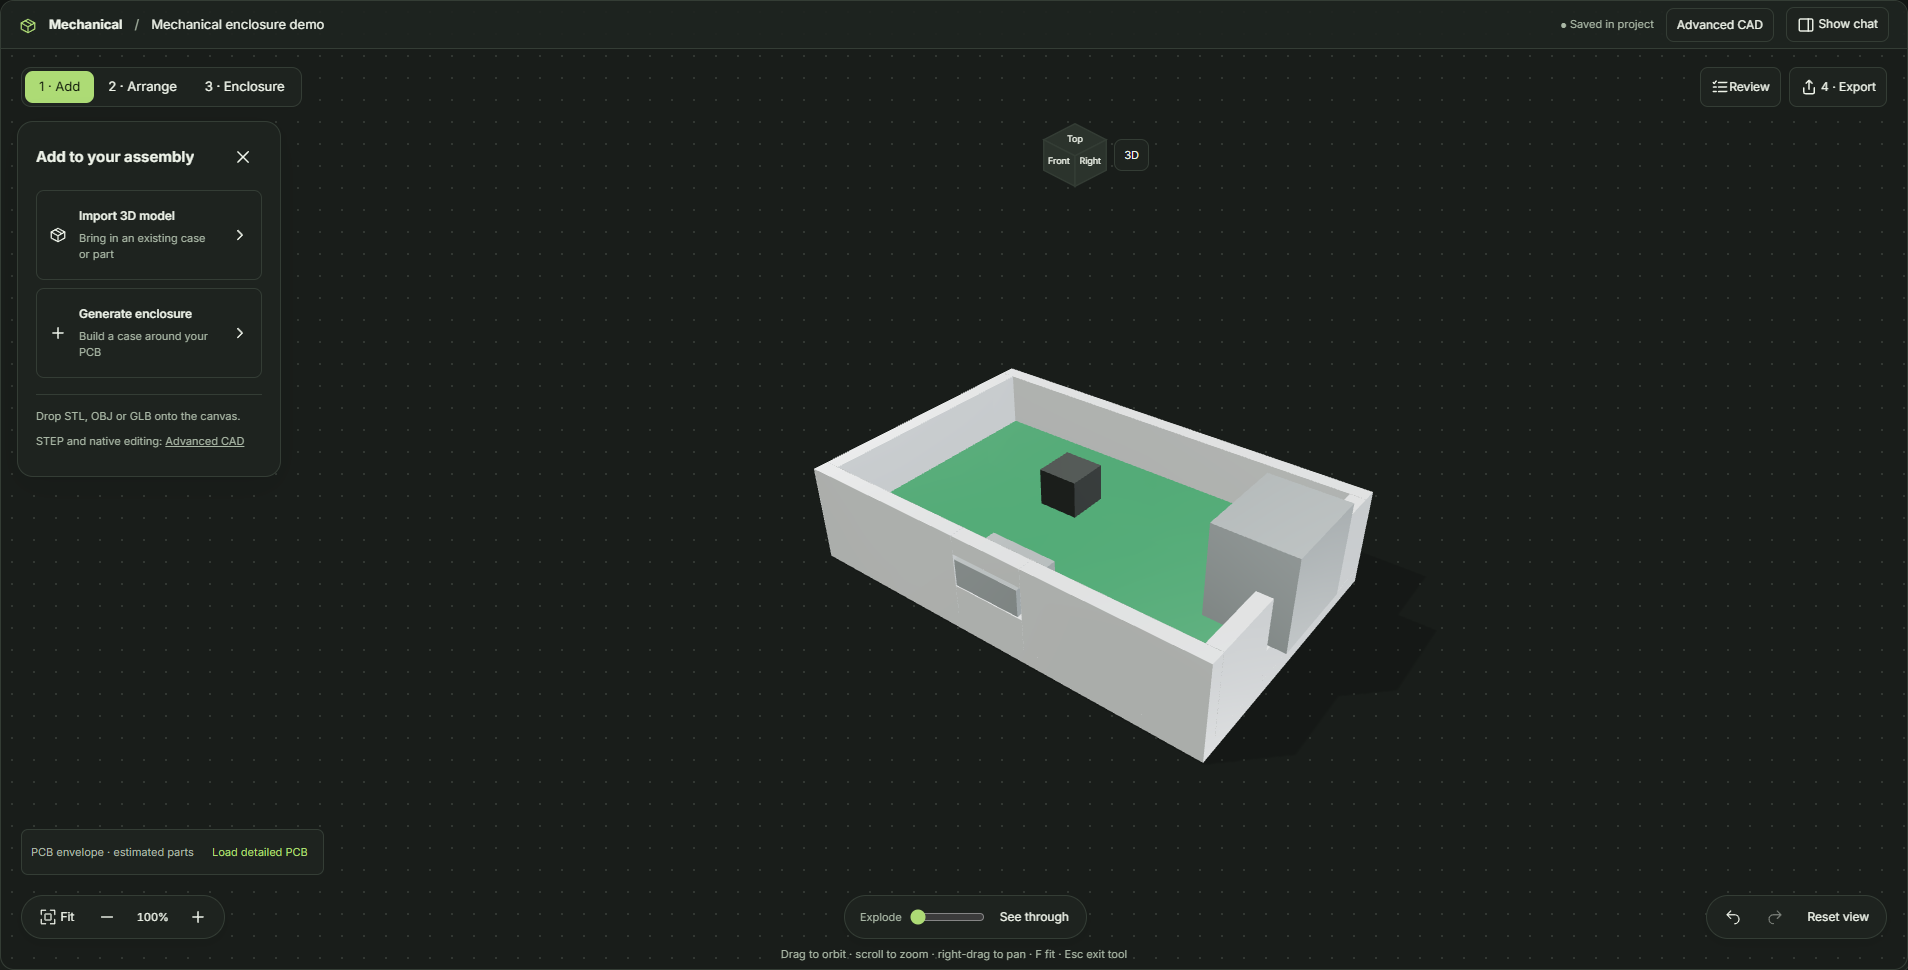
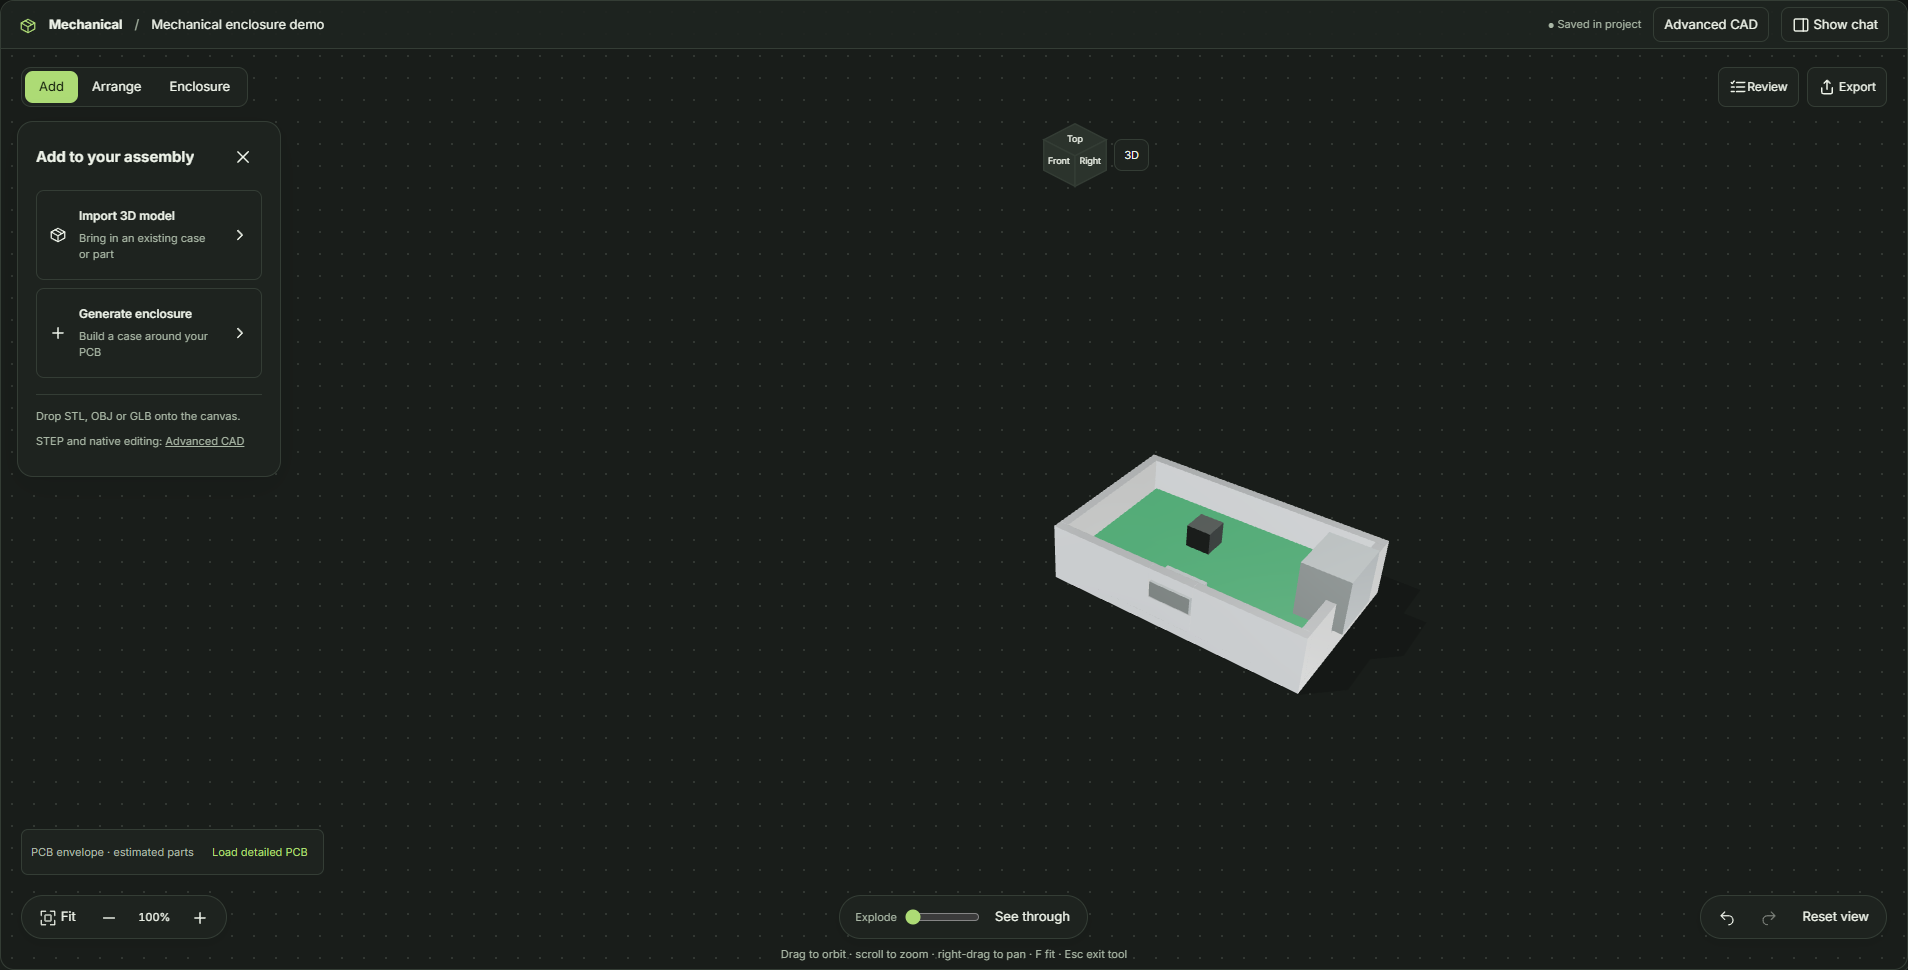
Make CAD parts and transform controls easier to read

diff --git a/packages/ui/src/board/mechanical/MechanicalWorkspace.tsx b/packages/ui/src/board/mechanical/MechanicalWorkspace.tsx
@@ -295,6 +295,7 @@ export function MechanicalWorkspace({
               Number(res.params?.["floorMm"] ?? 2) + Number(res.params?.["standoffMm"] ?? 3);
         itemsRef.current = next;
         setItems(next);
+        setPanel(next.length ? "assembly" : "add");
         setSaveState("Saved in project");
         setLoaded(true);
       } catch (e) {
@@ -768,7 +769,7 @@ export function MechanicalWorkspace({
       {panel === "assembly" && !preview && (
         <aside className="fd-mechanical-card fd-mechanical-left">
           <div className="fd-mechanical-card-heading">
-            <h2>Assembly</h2>
+            <h2>Parts</h2>
             <span>
               {items.length} {items.length === 1 ? "part" : "parts"}
             </span>
@@ -948,29 +949,35 @@ export function MechanicalWorkspace({
               {dimensions ?? "Loading dimensions…"}
               <small>World bounds · X × Y × Z</small>
             </p>
-            {(
-              [
-                ["translate", "Move"],
-                ["rotate", "Rotate"],
-                ["measure", "Measure"],
-              ] as const
-            ).map(([m, label]) => (
-              <button
-                key={m}
-                aria-pressed={mode === m}
-                disabled={!editable}
-                onClick={() => setMode(mode === m ? "orbit" : m)}
-              >
-                {label}
-              </button>
-            ))}
-            <button disabled={!editable || current.kind === "board"} onClick={align}>
+            <div className="fd-mechanical-tool-row">
+              {(
+                [
+                  ["translate", "Move"],
+                  ["rotate", "Rotate"],
+                  ["measure", "Measure"],
+                ] as const
+              ).map(([m, label]) => (
+                <button
+                  key={m}
+                  aria-pressed={mode === m}
+                  disabled={!editable}
+                  onClick={() => setMode(mode === m ? "orbit" : m)}
+                >
+                  {label}
+                </button>
+              ))}
+            </div>
+            <button
+              className="fd-mechanical-align"
+              disabled={!editable || current.kind === "board"}
+              onClick={align}
+            >
               Center on PCB
             </button>
           </div>
           {mode !== "measure" && (
             <details open>
-              <summary>Position, rotation & scale · mm</summary>
+              <summary>Transform</summary>
               <div className="fd-mechanical-transform">
                 {(
                   [
@@ -979,10 +986,12 @@ export function MechanicalWorkspace({
                   ] as const
                 ).map(([key, label, unit]) => (
                   <fieldset key={key}>
-                    <legend>{label}</legend>
+                    <legend>
+                      {label} <span>{unit}</span>
+                    </legend>
                     {["X", "Y", "Z"].map((axis, index) => (
-                      <label key={axis}>
-                        {axis}
+                      <label key={axis} data-axis={axis}>
+                        <span>{axis}</span>
                         <TransformNumber
                           key={`${current.id}-${key}-${axis}`}
                           label={`${label} ${axis}`}
@@ -995,13 +1004,14 @@ export function MechanicalWorkspace({
                             });
                           }}
                         />
-                        <small>{unit}</small>
                       </label>
                     ))}
                   </fieldset>
                 ))}
-                <label>
-                  Scale
+                <label className="fd-mechanical-scale">
+                  <span>
+                    Uniform scale <small>1 = original size</small>
+                  </span>
                   <TransformNumber
                     key={`${current.id}-scale`}
                     label="Model scale"
@@ -1012,23 +1022,25 @@ export function MechanicalWorkspace({
                     onCommit={(scale) => patch(current.id, { scale })}
                   />
                 </label>
-                <button
-                  disabled={!editable}
-                  onClick={() =>
-                    patch(current.id, { position: [0, 0, 0], rotation: [0, 0, 0], scale: 1 })
-                  }
-                >
-                  Reset transform
-                </button>
-                <button
-                  disabled={!editable}
-                  onClick={() => {
-                    commit(items.filter((i) => i.id !== current.id));
-                    setSelected(null);
-                  }}
-                >
-                  Remove from assembly
-                </button>
+                <div className="fd-mechanical-part-actions">
+                  <button
+                    disabled={!editable}
+                    onClick={() =>
+                      patch(current.id, { position: [0, 0, 0], rotation: [0, 0, 0], scale: 1 })
+                    }
+                  >
+                    Reset transform
+                  </button>
+                  <button
+                    disabled={!editable}
+                    onClick={() => {
+                      commit(items.filter((i) => i.id !== current.id));
+                      setSelected(null);
+                    }}
+                  >
+                    Remove from assembly
+                  </button>
+                </div>
               </div>
             </details>
           )}

diff --git a/packages/ui/src/board/mechanical/mechanical.css b/packages/ui/src/board/mechanical/mechanical.css
@@ -578,9 +578,6 @@
   }
 }
 @container (max-width: 1000px) {
-  .fd-mechanical-save {
-    display: none;
-  }
   .fd-mechanical-left {
     width: 215px;
   }
@@ -679,7 +676,8 @@
   --cad-right: 320px;
 }
 .fd-mechanical-stage {
-  inset: 200px calc(var(--cad-right) + 20px) 150px calc(var(--cad-left) + 20px);
+  inset: clamp(140px, 24%, 200px) calc(var(--cad-right) + 20px) clamp(100px, 18%, 150px)
+    calc(var(--cad-left) + 20px);
 }
 .fd-mechanical svg {
   display: inline-block;
@@ -695,7 +693,7 @@
 .fd-mechanical-card label,
 .fd-mechanical-card summary,
 .fd-mechanical-parts strong {
-  font-size: 12px;
+  font-size: 13px;
 }
 .fd-mechanical-card h2 {
   font-size: 15px;
@@ -752,24 +750,112 @@
   color: var(--fd-muted);
   font-size: 11px;
 }
+.fd-mechanical-tool-row {
+  display: grid;
+  grid-template-columns: repeat(3, minmax(0, 1fr));
+  gap: 4px;
+  width: 100%;
+  padding: 4px;
+  background: var(--fd-bg);
+  border: 1px solid var(--fd-border);
+  border-radius: 10px;
+}
+.fd-mechanical-selection-tools .fd-mechanical-tool-row button {
+  padding: 8px 4px;
+  font-size: 13px;
+}
+.fd-mechanical-align {
+  width: 100%;
+  text-align: left;
+  color: var(--fd-muted);
+}
+.fd-mechanical-selection details {
+  padding: 14px 0 0;
+  margin-top: 14px;
+}
+.fd-mechanical-selection summary {
+  font-weight: 600;
+  font-size: 13px;
+  color: var(--fd-fg);
+}
 .fd-mechanical-transform {
-  gap: 8px;
+  display: block;
 }
 .fd-mechanical-transform fieldset {
+  display: grid;
+  grid-template-columns: repeat(3, minmax(0, 1fr));
+  gap: 8px;
   width: 100%;
-  flex-wrap: wrap;
+  min-width: 0;
+  margin-top: 16px;
+}
+.fd-mechanical-transform legend {
+  font-size: 13px;
+  color: var(--fd-fg);
+  margin: 0 0 8px;
+  width: 100%;
+}
+.fd-mechanical-transform legend span {
+  float: right;
+  color: var(--fd-muted);
+  font-size: 12px;
 }
 .fd-mechanical-transform fieldset label {
-  flex: 1 1 100%;
-  justify-content: space-between;
+  display: flex;
+  flex-direction: column;
+  align-items: stretch;
+  gap: 5px;
+  min-width: 0;
+  margin: 0;
+}
+.fd-mechanical-transform fieldset label > span {
+  font-weight: 600;
+  font-size: 12px;
 }
 .fd-mechanical-transform fieldset input {
-  width: 165px;
+  width: 100%;
+  min-width: 0;
+  padding: 8px 6px;
+  font-size: 13px;
+  font-variant-numeric: tabular-nums;
 }
-.fd-mechanical-transform button {
+.fd-mechanical-transform input::-webkit-inner-spin-button,
+.fd-mechanical-transform input::-webkit-outer-spin-button {
+  appearance: none;
+  margin: 0;
+}
+.fd-mechanical-transform .fd-mechanical-scale {
+  display: flex;
+  justify-content: space-between;
+  gap: 12px;
+  margin: 18px 0;
+  font-size: 13px;
+}
+.fd-mechanical-scale small {
+  display: block;
+  font-size: 11px;
+  color: var(--fd-muted);
+  margin-top: 4px;
+}
+.fd-mechanical-scale input {
+  width: 76px;
+  font-size: 13px !important;
+}
+.fd-mechanical-part-actions {
+  display: grid;
+  gap: 6px;
+  border-top: 1px solid var(--fd-border);
+  padding-top: 14px;
+}
+.fd-mechanical-part-actions button {
   font-size: 12px;
   border: 1px solid var(--fd-border);
   width: 100%;
+  text-align: left;
+  padding: 9px 10px;
+}
+.fd-mechanical-part-actions button:last-child {
+  color: var(--fd-danger);
 }
 .fd-mechanical-viewport-tools {
   position: absolute;
@@ -900,8 +986,8 @@
     font-size: 11px;
   }
   .fd-mechanical-stage {
-    top: 230px;
-    bottom: 190px;
+    top: clamp(150px, 28%, 230px);
+    bottom: clamp(120px, 22%, 190px);
   }
   .fd-mechanical-viewport-tools {
     top: 150px;

diff --git a/docs/mechanical-workspace.md b/docs/mechanical-workspace.md
@@ -24,13 +24,13 @@ The left column contains the supplied design concepts; the right column shows th
 
 ### Usability refinement
 
-Panels reserve space beside the 3D render surface, so Fit no longer frames models underneath controls. Narrow layouts show one inspector at a time. Labels and buttons are larger, and SVG icons share the app's stroke style.
+Panels reserve space beside the 3D render surface, so Fit no longer frames models underneath controls. Narrow layouts show one inspector at a time. Existing assemblies open with the Parts list. The inspector groups X/Y/Z into rows, labels units once per group, explains uniform scale, and separates Move/Rotate/Measure from secondary actions. Save status remains visible beside chat. Labels and buttons are larger, and SVG icons share the app's stroke style.
 
 | Previous layout | Refined layout |
 | --- | --- |
 | ![Before: split canvas and overlapping tools](screenshots/mechanical-workspace/06-before-usability.png) | ![After: focus canvas, clear editing state and dedicated export](screenshots/mechanical-workspace/07-export-and-edit-state.png) |
 
-![Chat beside a docked inspector](screenshots/mechanical-workspace/08-chat-and-inspector.png)
+![Compact CAD panel beside chat (cropped to the workspace)](screenshots/mechanical-workspace/08-chat-and-inspector.png)
 
 ### Light theme
 
@@ -59,6 +59,7 @@ The board fallback is an outline bounding envelope with estimated component size
 - All 217 UI tests and all 172 client-core tests pass. Focused mechanical/CAD coverage: 22 tests (5 persistence/pose/import-policy, 4 mesh decoding/coordinate-frame, 13 CAD tools).
 - Full root suite: 1,863 passed, 35 failed. Failures match the earlier main baseline (34 in the full baseline log plus the separately reproduced MCP progress-timing failure). These include Windows process/symlink/platform assumptions, router/runtime checks and unrelated existing assertions; this is not an all-green root run.
 - Live app: native mouse orbit, move handle, rotation ring, scroll zoom and two-point measurement; exact negative/decimal coordinates; STL/OBJ/GLB imports; malformed mesh rejection; original-file preservation; undo/redo; remove/undo; scale persistence after reopening; preview/cancel preserving existing files; Apply creating STL/STEP; moved/rotated board-case alignment; compact explode controls; dark/light rendering; Advanced CAD dialog.
+- Readability follow-up: 217 UI tests, UI typecheck and desktop build pass; live verification of default Parts view, aligned/non-overlapping XYZ fields, negative decimal editing with undo, and visible scale/save status in a 767px-wide chat layout.
 - Usability follow-up: persisted focus/chat preference across project reopen; no canvas/inspector overlap at 646px workspace width; scale dimensions, keyboard undo/redo and text-field guards; F/Esc; view-cube keyboard activation; exploded-view return; separate review/export; valid base/lid STL and STEP blobs through the download buttons; OBJ import while Export is open closes Export and selects the import; import undo. Idle WebGL draw calls: **0** over 500ms, with drawing resuming on camera input. Preview/cancel again preserved all six checked PCB/layout/spec/export files.
 - Detailed GLB export was exercised with `mechanical/runtime-board.kicad_pcb` and KiCad 10.0.5. The separate enclosure fixture supplies the screenshots above.
 
